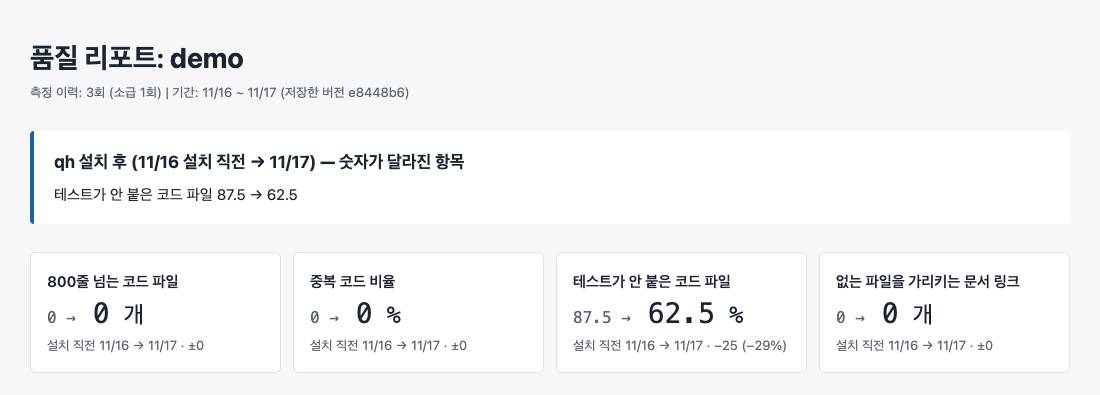
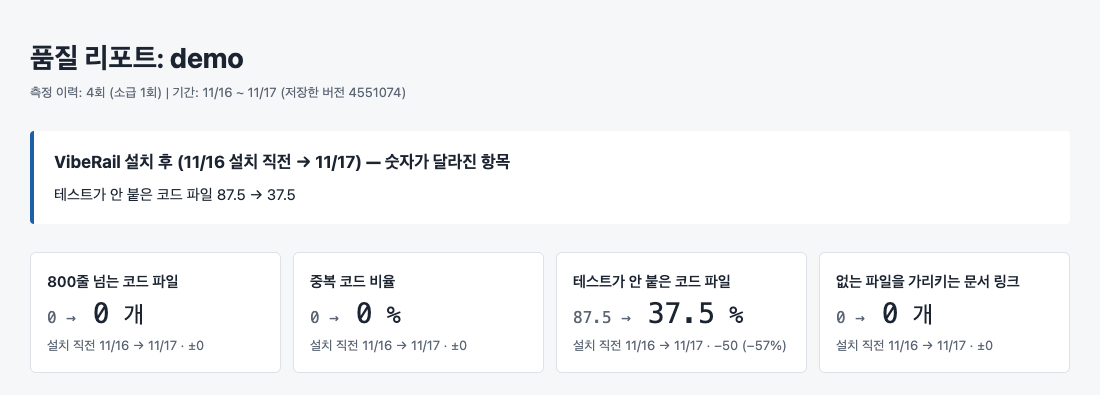
fix: 사용자 화면의 qh를 VibeRail·품질 검사로

diff --git a/lib/measure-page.js b/lib/measure-page.js
@@ -46,7 +46,7 @@ th.qhstart,td.qhstart{border-left:2px solid var(--accent)}
 <div class="verdict" id="verdict"></div>
 <section aria-label="처음과 지금"><div class="tiles" id="tiles"></div></section>
 <section><h2>지표 뜻</h2>
-<p class="meta">아래 <span id="judged">4</span>개 지표의 뜻과 보는 법입니다. 변화는 qh 설치 직전(설치 전 기록이 없으면 첫 측정)부터 지금까지의 숫자입니다. 좋고 나쁨은 qh가 판정하지 않고, 목표치는 프로젝트가 정합니다.</p>
+<p class="meta">아래 <span id="judged">4</span>개 지표의 뜻과 보는 법입니다. 변화는 VibeRail 설치 직전(설치 전 기록이 없으면 첫 측정)부터 지금까지의 숫자입니다. 좋고 나쁨은 VibeRail이 판정하지 않고, 목표치는 프로젝트가 정합니다.</p>
 <div class="wrap"><table id="why"></table></div></section>
 <section><h2>측정 이력</h2>
 <p class="meta">측정마다 오른쪽에 날짜 열이 추가됩니다. 같은 날은 마지막 값, 기울어진 날짜는 과거 버전을 소급 측정한 값입니다.</p>
@@ -54,7 +54,7 @@ th.qhstart,td.qhstart{border-left:2px solid var(--accent)}
 <footer class="foot">
 <span>측정 기준: 측정할 때마다 지금 저장한 버전을 재서 기록 파일에 한 줄씩 더합니다(지우지 않음). 소급 값은 과거 주별 버전 하나를 임시 복사본에서 같은 방식으로 잰 것입니다.</span>
 <span>코드 수치는 버전 관리에 올라간 파일만, 테스트와 DB 변경 파일은 코드에서 뺍니다(중복 비율도 같은 기준). 중복은 의미 있는 6줄이 같은 덩어리, "같은 이름 테스트"는 이름이 같은 테스트 파일이 있는지입니다.</span>
-<span>qh 작동 수치는 이 컴퓨터에 남은 "AI가 답을 끝낼 때" 기록(저장한 버전에는 안 올라감)에서 셉니다. 소급 구간에는 없습니다. 차단이 많다는 건 나쁜 게 아니라 qh가 일을 했다는 뜻입니다.</span>
+<span>품질 검사 작동 수치는 이 컴퓨터에 남은 "AI가 답을 끝낼 때" 기록(저장한 버전에는 안 올라감)에서 셉니다. 소급 구간에는 없습니다. 차단이 많다는 건 나쁜 게 아니라 품질 검사가 일을 했다는 뜻입니다.</span>
 </footer></main>
 <script>
 const esc=s=>String(s).replace(/[&<>"']/g,c=>({'&':'&amp;','<':'&lt;','>':'&gt;','"':'&quot;',"'":'&#39;'})[c]);
@@ -89,11 +89,11 @@ const moved=(lo,hi)=>items.filter(([k,,,dir])=>dir==='lower'&&series(k,lo,hi).le
 const names=xs=>xs.map(x=>x.l+' '+fmt(x.c.first.v)+' → '+fmt(x.c.last.v)).join(', ');
 const v=document.getElementById('verdict');
 if(days.length<2){v.innerHTML='<strong>첫 측정입니다. 다음 측정부터 비교합니다.</strong><p>품질 검사를 넣기 전 흐름도 보려면 AI에게 "지난 8주도 재 줘"라고 하세요. 지난 8주를 거슬러 재서 함께 보여 줍니다.</p>'}
-else{const since=qhAt>0?'qh 설치 후 ('+md(days[base].date)+' 설치 직전 → '+md(last.date)+')':(qhAt<0?'qh 설치 전 기록만 있음 ('+md(days[0].date)+' → '+md(last.date)+')':md(days[0].date)+' 대비');
+else{const since=qhAt>0?'VibeRail 설치 후 ('+md(days[base].date)+' 설치 직전 → '+md(last.date)+')':(qhAt<0?'VibeRail 설치 전 기록만 있음 ('+md(days[0].date)+' → '+md(last.date)+')':md(days[0].date)+' 대비');
 let h='<strong>'+since+' — 숫자가 달라진 항목</strong>';
 const m=moved(base,days.length-1);h+='<p>'+(m.length?names(m):'달라진 항목 없음')+'</p>';
-if(qhAt>0&&base>0){const b=moved(0,base);h+='<p class="meta">qh 넣기 전 흐름 ('+md(days[0].date)+' → '+md(days[base].date)+'): '+(b.length?names(b):'달라진 항목 없음')+'</p>'}
-if(qhAt<0)h+='<p class="meta">qh가 저장된 뒤 측정하면 설치 후 변화를 따로 보여 줍니다.</p>';
+if(qhAt>0&&base>0){const b=moved(0,base);h+='<p class="meta">VibeRail 넣기 전 흐름 ('+md(days[0].date)+' → '+md(days[base].date)+'): '+(b.length?names(b):'달라진 항목 없음')+'</p>'}
+if(qhAt<0)h+='<p class="meta">VibeRail이 저장된 뒤 측정하면 설치 후 변화를 따로 보여 줍니다.</p>';
 v.innerHTML=h}
 const label=k=>(items.find(([x])=>x===k)||[k,k])[1];
 document.getElementById('tiles').innerHTML=D.tiles.map(([k,unit])=>{const c=change(k);if(!c.first)return'';
@@ -103,7 +103,7 @@ const tick=t=>esc(t).replace(/\x60([^\x60]+)\x60/g,'<code>$1</code>');
 document.getElementById('why').innerHTML='<thead><tr><th>지표</th><th>뜻</th><th>나빠지면</th><th>좋아지면</th><th>기준과 받아들이는 법</th></tr></thead><tbody>'+
 items.filter(x=>x[4]).map(([,l,,,w])=>'<tr><td class="name">'+esc(l)+'</td>'+w.map((t,i)=>'<td data-l="'+['뜻','나빠지면','좋아지면','기준과 받아들이는 법'][i]+'">'+tick(t)+'</td>').join('')+'</tr>').join('')+'</tbody>';
 const li=days.length-1;
-const head='<thead><tr><th>항목</th><th>추이</th><th>변화 ('+(qhAt>0?'설치 직전':'처음')+'→최근)</th>'+days.map((d,i)=>'<th class="n'+(i===li?' latest':'')+(d.row.backfill==1?' before':'')+(i===qhAt&&qhAt>0?' qhstart':'')+'">'+md(d.date)+(i===qhAt&&qhAt>0?'<small>qh 설치 후</small>':'')+(d.n>1?'<small>'+d.n+'회 중 마지막</small>':'')+'</th>').join('')+'</tr></thead>';
+const head='<thead><tr><th>항목</th><th>추이</th><th>변화 ('+(qhAt>0?'설치 직전':'처음')+'→최근)</th>'+days.map((d,i)=>'<th class="n'+(i===li?' latest':'')+(d.row.backfill==1?' before':'')+(i===qhAt&&qhAt>0?' qhstart':'')+'">'+md(d.date)+(i===qhAt&&qhAt>0?'<small>VibeRail 설치 후</small>':'')+(d.n>1?'<small>'+d.n+'회 중 마지막</small>':'')+'</th>').join('')+'</tr></thead>';
 const body=D.groups.map(([g,xs])=>'<tr class="group"><td colspan="'+(3+days.length)+'">'+g+'</td></tr>'+xs.map(([k,l,desc])=>{const c=change(k);
 return'<tr><td><span class="name">'+l+'</span><span class="desc">'+desc+'</span></td><td>'+spark(k,l)+'</td><td>'+c.pill+'<span class="delta">'+c.delta+'</span></td>'+days.map((d,i)=>'<td class="n'+(i===li?' latest':'')+(i===qhAt&&qhAt>0?' qhstart':'')+'">'+fmt(d.row[k])+'</td>').join('')+'</tr>'}).join('')).join('');
 document.getElementById('hist').innerHTML=head+'<tbody>'+body+'</tbody>';

diff --git a/lib/measure.js b/lib/measure.js
@@ -33,7 +33,7 @@ const GROUPS = [
       '한 파일에 기능이 몰려 있다',
       'AI가 파일 전체를 읽어야 해 비용과 실수가 늘고, 한 곳을 고치다 옆 기능이 깨지며, 사람이 리뷰하기 어렵다',
       '고칠 때 영향 범위가 작아진다',
-      '0이 목표는 아니다. 이미 큰 파일은 받아들이고, 작업이 그 파일을 더 키우면 qh가 막는다. 800은 연구 근거가 아닌 관례값이다',
+      '0이 목표는 아니다. 이미 큰 파일은 받아들이고, 작업이 그 파일을 더 키우면 품질 검사가 막는다. 800은 연구 근거가 아닌 관례값이다',
     ]],
     ['duplicated_pct', '중복 코드 비율', '코드 줄 중 다른 곳에 같은 덩어리가 있는 줄(%)', 'lower', [
       '같은 로직이 여러 곳에 있다',
@@ -46,7 +46,7 @@ const GROUPS = [
       '하위 폴더로 나누기로 정한 폴더의 맨 위에 그냥 놓인 파일',
       '파일이 한 줄로 쌓여 어떤 기능이 어디 있는지 이름만으로 찾게 되고, AI가 새 파일도 같은 자리에 계속 놓는다',
       '기능별 폴더를 열면 관련 파일이 모여 있다',
-      '설정한 프로젝트에만 나온다. 새 파일은 qh가 막고, 기존 파일은 옮길 때마다 줄어든다. 꼭 맨 위여야 하면 결정 로그에 이유를 적고 허용하면, 그 파일은 여기서 빠진다',
+      '설정한 프로젝트에만 나온다. 새 파일은 품질 검사가 막고, 기존 파일은 옮길 때마다 줄어든다. 꼭 맨 위여야 하면 결정 로그에 이유를 적고 허용하면, 그 파일은 여기서 빠진다',
     ]],
   ]],
   ['테스트', [
@@ -70,7 +70,7 @@ const GROUPS = [
   ['개발 흐름 (참고)', [
     ['feat_median_files_60d', '기능 1건당 수정 파일 수', `최근 ${FEAT_WINDOW_DAYS}일 중앙값 · 저장 습관에 흔들려 판정하지 않음`, 'ref'],
   ]],
-  [`qh 작동 (최근 ${BLOCK_WINDOW_DAYS}일)`, [
+  [`품질 검사 작동 (최근 ${BLOCK_WINDOW_DAYS}일)`, [
     ['stop_blocks_30d', 'AI를 돌려보낸 횟수', 'AI가 답을 끝낼 때 막은 횟수', 'ref'],
     ['block_tdd', '└ 테스트 없이 코드 변경', '', 'ref'],
     ['block_docs', '└ 문서 미갱신', '', 'ref'],

diff --git a/lib/ask.js b/lib/ask.js
@@ -70,7 +70,7 @@ details{margin-top:10px;font-size:13px}pre{margin:6px 0 0;white-space:pre-wrap;f
 @media (max-width:820px){.wrap{grid-template-columns:1fr}aside{order:-1;position:sticky;top:0;z-index:1;border-radius:0 0 12px 12px}aside ol{grid-template-columns:1fr 1fr;max-height:30vh;overflow:auto}}
 </style></head><body><div class="wrap"><main>
 <h1>품질 질문 — ${esc(project)}</h1>
-<p class="sub">선택한 답에 맞춰 qh가 검사를 켭니다. 미선택 시 권장안이 기본 적용됩니다. 설정 완료 후 우측 "프롬프트 복사"를 눌러 AI에게 전달하세요.</p>
+<p class="sub">선택한 답에 맞춰 품질 검사가 켜집니다. 미선택 시 권장안이 기본 적용됩니다. 설정 완료 후 우측 "프롬프트 복사"를 눌러 AI에게 전달하세요.</p>
 <section class="always"><h2>기본 활성 규칙</h2><ul>${always}</ul></section>
 ${QUESTIONS.map((q, i) => card(q, i + 1, rec[q.id], saved[q.id])).join('')}
 </main>

diff --git a/test/user-words.test.js b/test/user-words.test.js
@@ -76,6 +76,9 @@ test('A-level question page, measure report and interface screen contain no deve
     const text = html.replace(/<style>[\s\S]*?<\/style>/g, '').replace(/<script id="pure">[\s\S]*?<\/script>/, '');
     const hits = [...new Set(text.match(new RegExp(SCREEN_WORDS, 'g')))];
     assert.deepStrictEqual(hits, [], `${name} 화면에 전문용어: ${hits}`);
+    // The product is VibeRail to a person; "qh 답" is only the marker the agent reads back.
+    const names = text.replace(/qh 답/g, '').replace(/^\s*\/\/.*$/gm, '').match(/\bqh\b(?!-)[^<'"\n]{0,20}/g) || [];
+    assert.deepStrictEqual(names, [], `${name} 화면에 qh라는 이름`);
   }
 });
 

diff --git a/test/measure-page.test.js b/test/measure-page.test.js
@@ -18,5 +18,5 @@ test('the report does not tally metrics into 개선/악화/유지 counts or labe
 test('the report still shows first -> now with the delta text and the before/after-qh split', () => {
   assert.match(html, /class="from"/);
   assert.match(html, /class="delta"/);
-  assert.match(html, /qh 설치 직전/);
+  assert.match(html, /VibeRail 설치 직전/);
 });

diff --git a/.quality/tasks/fix/product-name.md b/.quality/tasks/fix/product-name.md
@@ -1,0 +1,21 @@
+# 사용자 화면의 qh를 VibeRail·품질 검사로
+
+## 의도
+비개발자가 보는 화면에 "qh"라는 뜻 없는 이름이 나온다(팀장 질문 1: 의미 있는 단어인가). 설치 이야기면 제품 이름 VibeRail, 하는 일 이야기면 "품질 검사"로 섞어 쓴다.
+
+## 원하는 결과
+질문 화면·결과지·설계안 화면에 "qh"가 보이지 않는다. AI가 읽는 표지("qh 답")와 명령 이름은 그대로 둔다.
+
+## 성공 조건 → 검사
+- 세 화면에 qh라는 이름 없음(표지·주석·임시 폴더 이름 제외) → test/user-words.test.js
+- README 캡처가 바뀐 화면과 같음 → 캡처
+- 기존 동작 유지 → npm test 전체
+
+## 판단 필요
+- [x] 어떻게 바꿀지 · 섞어 쓰기(설치=VibeRail, 하는 일=품질 검사)
+
+## 미확인
+- 없음
+
+문서 영향 없음: 문서의 qh는 명령 이름·커밋 메시지라 그대로 둔다
+ADR 불필요: 화면 문구 바꾸기라 설계 결정이 아니다
